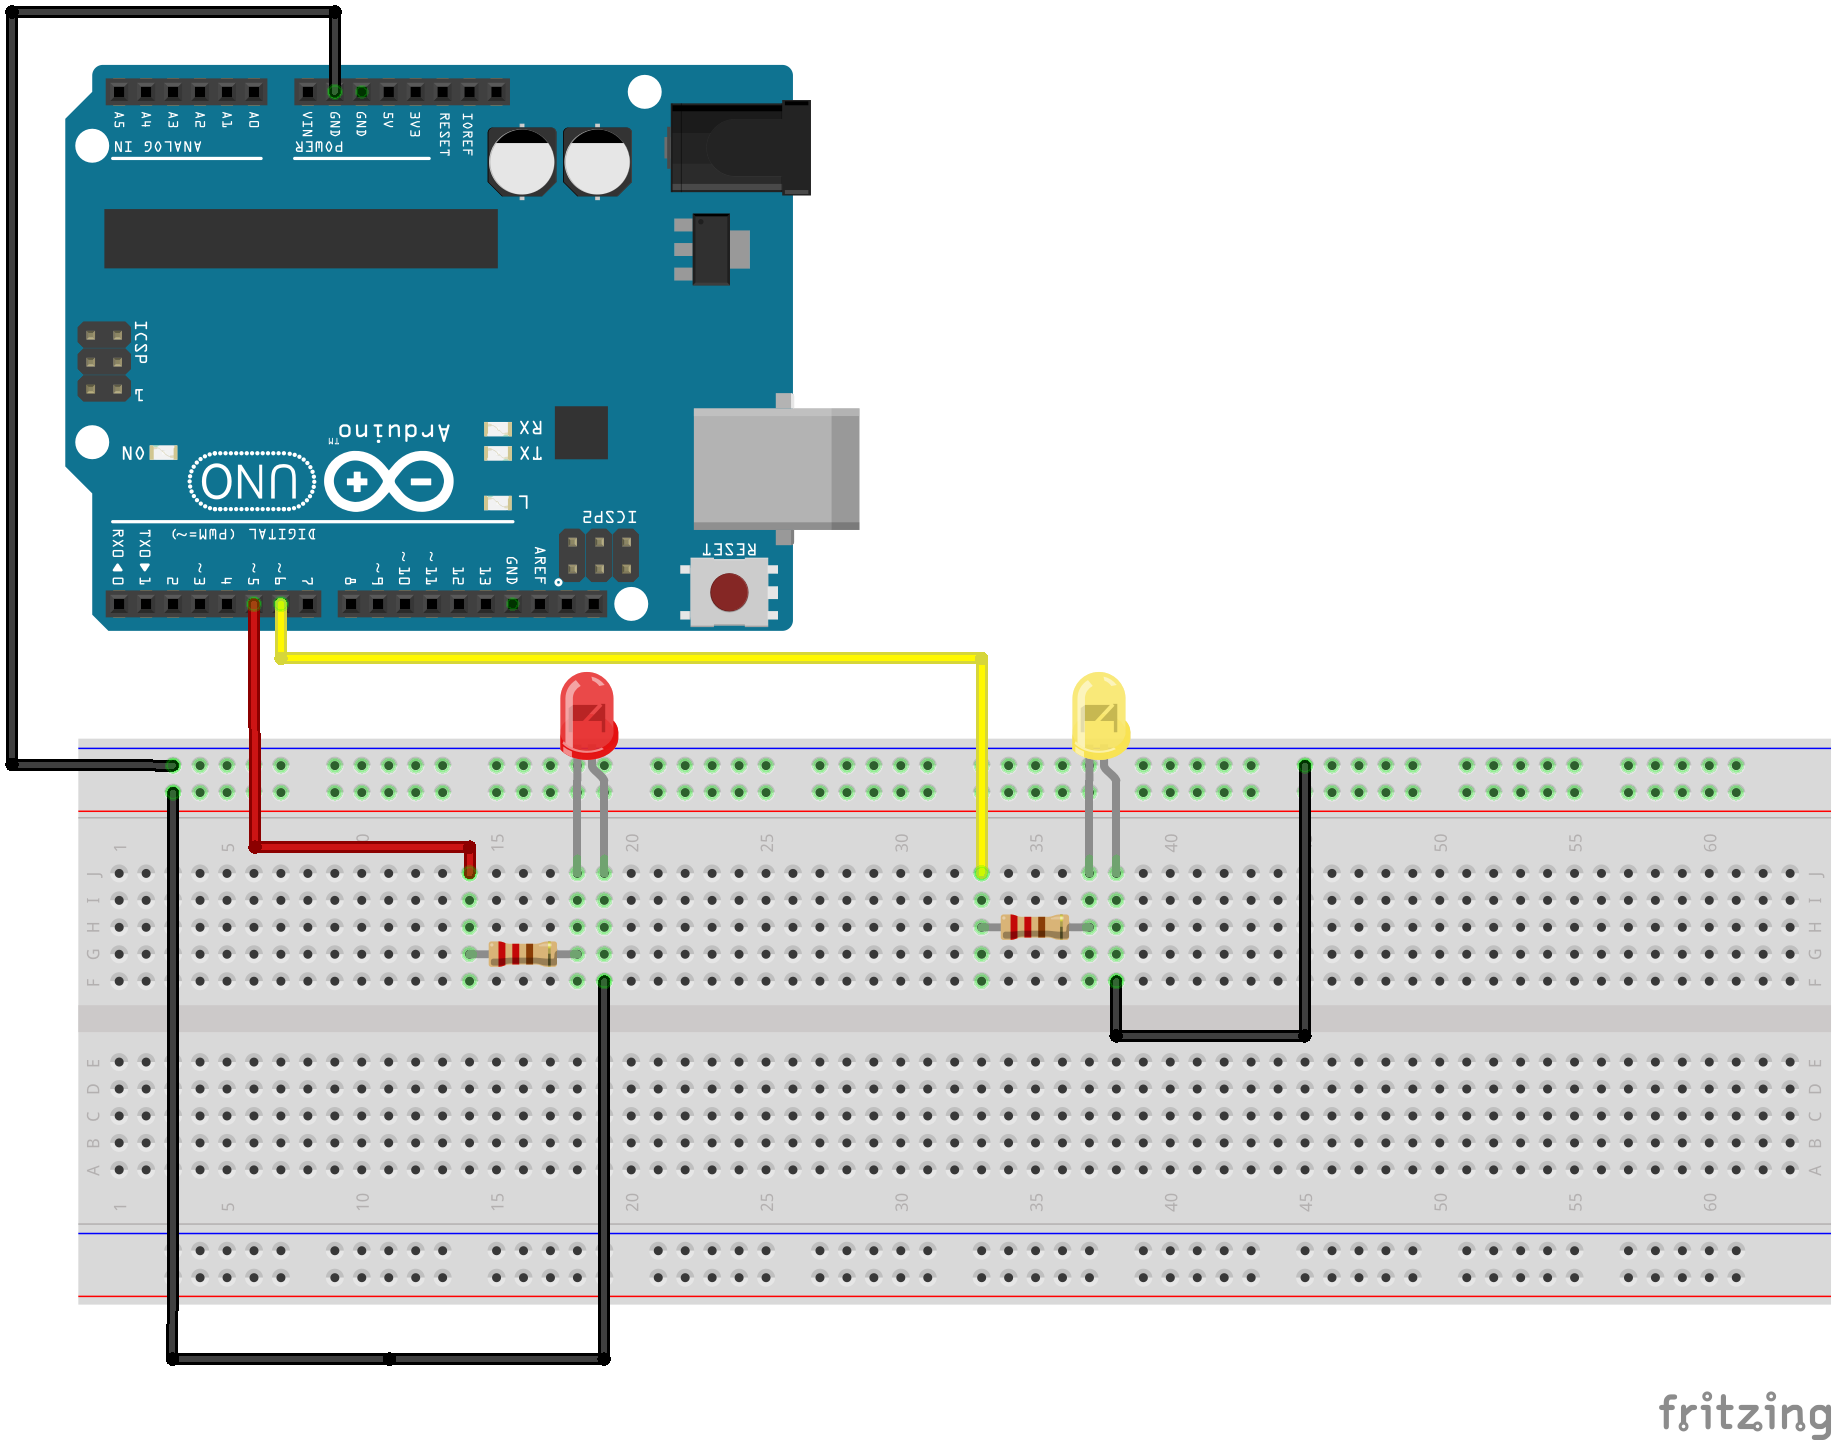
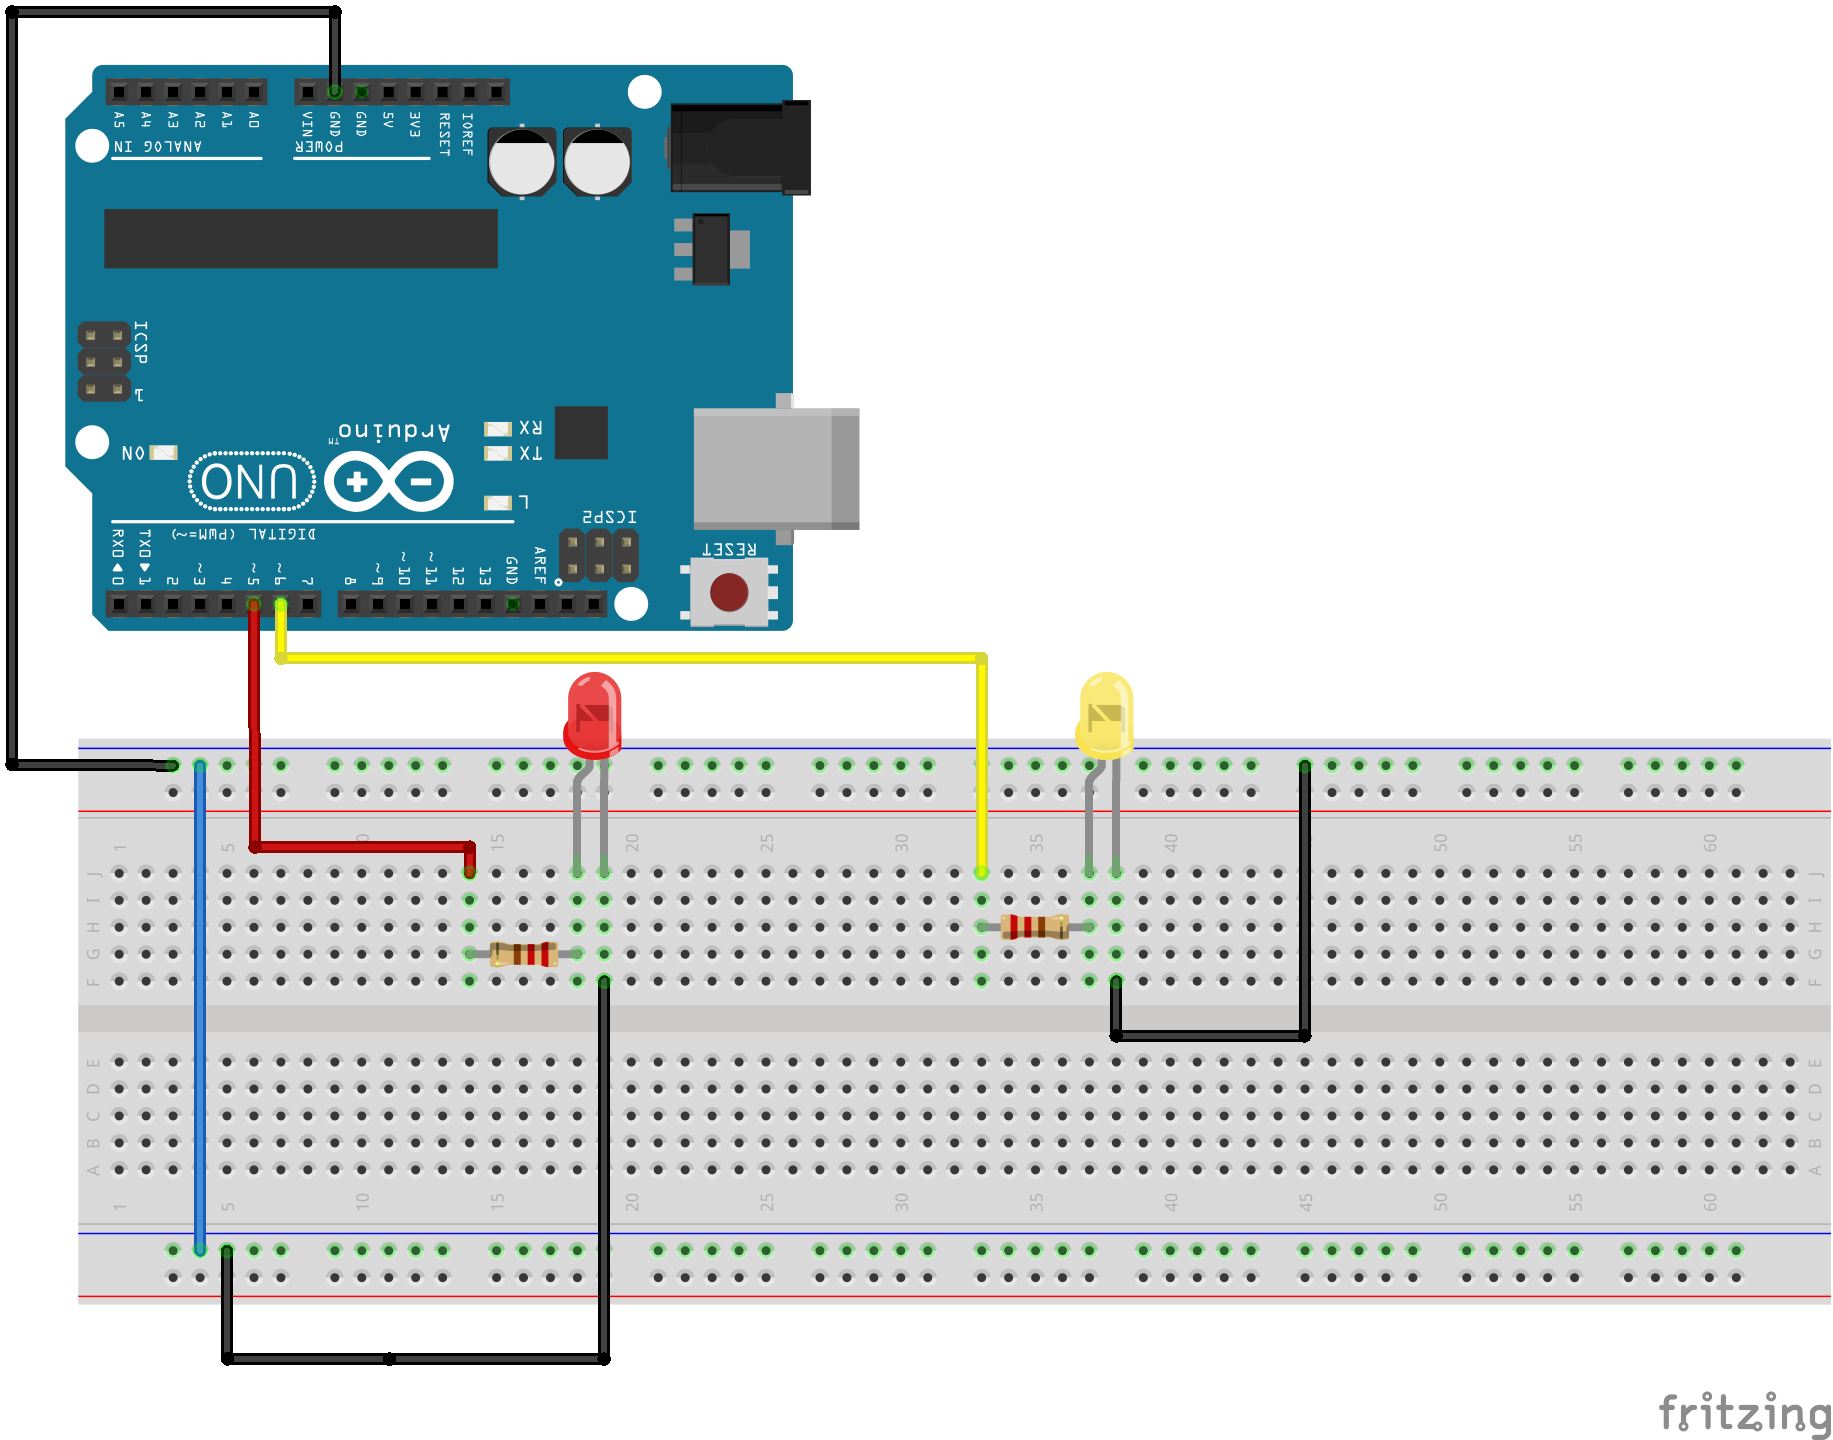
Fixed schematics and added list of used components.

diff --git a/01-led-via-serial-port/README.md b/01-led-via-serial-port/README.md
@@ -1,13 +1,23 @@
 # 01 - Blinking leds by user input
 
-
-
 A simple arduino program that blinks two leds based on the user input. Using`Serial.parseInt` to read the values entered. 
-
-
 
 ## Schematics
 
-
-
 ![schematics](schematics.png)
+
+## Components
+
+- Arduino Uno R3
+
+- Breadboard
+
+- 6x M-M wires
+
+- 1x Red LED
+
+- 1x Yellow LED
+
+- 2x 220 ohm resistors
+
+
